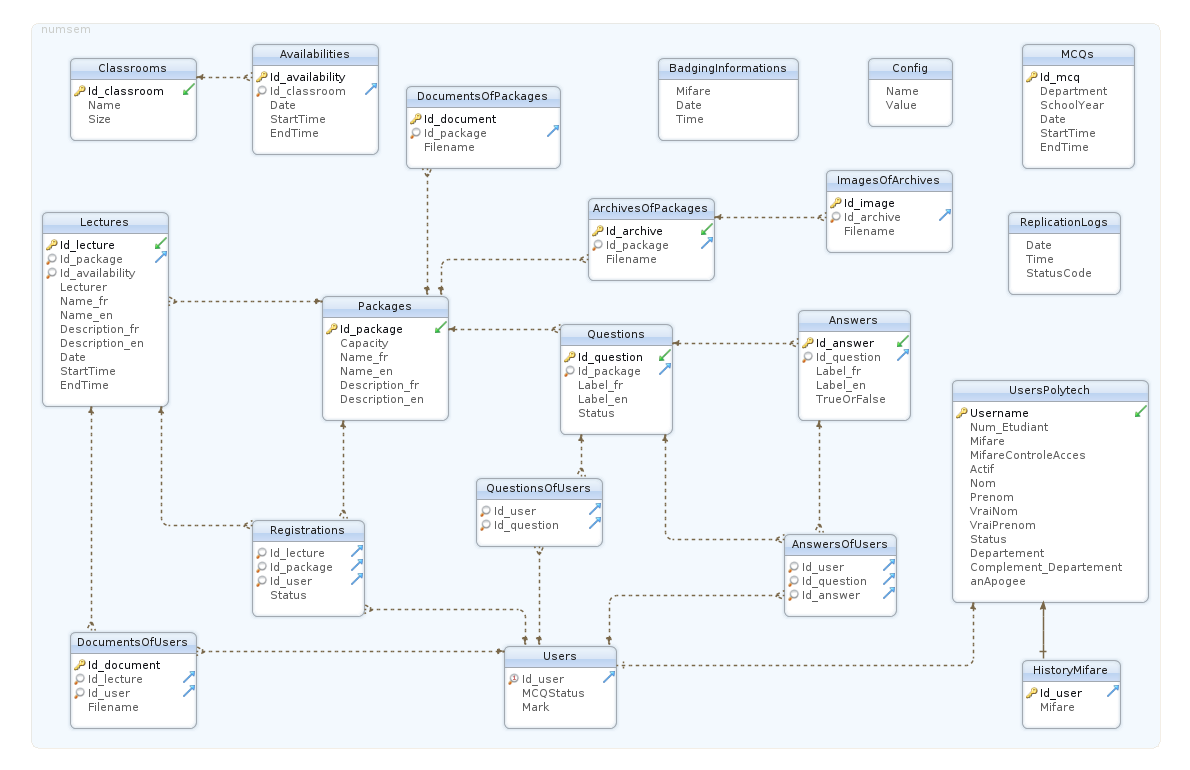
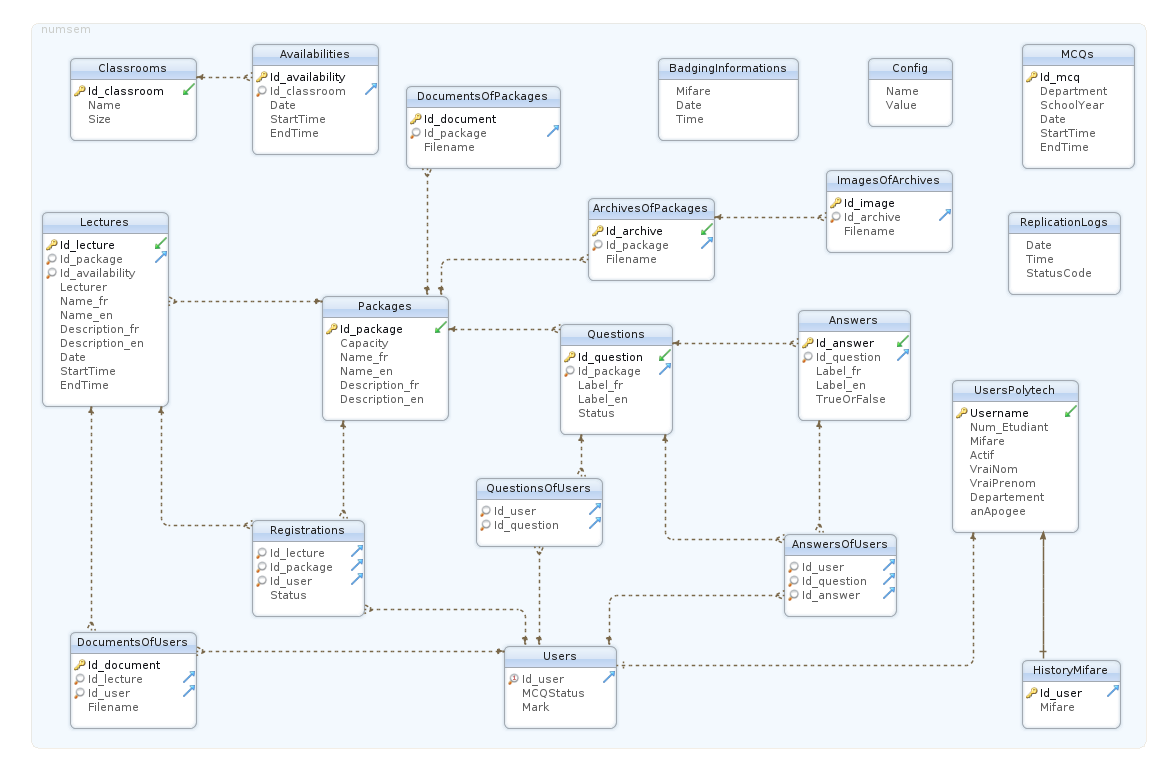
Modif de la bd

diff --git a/www/scripts/replication.php b/www/scripts/replication.php
@@ -23,8 +23,6 @@
 
     try
     {
-
-        // TODO: Mettre les bons paramètres
         $daoPoly = new Database('localhost', 'vbMifare', 'vbMifare2012', 'poly_repli');
         $daoENT = new Database('localhost', 'vbMifare', 'vbMifare2012', 'numsem');
 
@@ -92,7 +90,29 @@
 
             if(!$foundUser)
             {
-                // TODO: Inserer dans la table UsersPolytech que s'il est actif!
+                // Load completely the student from Polytech db
+                $req = $daoPoly->prepare('SELECT Username, Num_Etudiant, Mifare, Actif, VraiNom, VraiPrenom, Departement, anApogee FROM Users WHERE Id_user = ?');
+                $req->execute(array($userPoly['Username']));
+
+                $data = $req->fetch();
+
+                // Now save the new student in our db
+                $req = $daoENT->prepare('INSERT INTO UsersPolytech(Username, 
+                                                                   Num_Etudiant, 
+                                                                   Mifare, 
+                                                                   Actif, 
+                                                                   VraiNom, 
+                                                                   VraiPrenom, 
+                                                                   Departement, 
+                                                                   anApogee) VALUES(?, ?, ?, ?, ?, ?, ?, ?)');
+                $req->execute(array($data['Username'],
+                                    $data['Num_Etudiant'],
+                                    $data['Mifare'],
+                                    $data['Actif'],
+                                    $data['VraiNom'],
+                                    $data['VraiPrenom'],
+                                    $data['Departement'],
+                                    $data['anApogee']));
             }
 
             if($foundUser && $mifareDifferent)

diff --git a/www/lib/models/UserManager.class.php b/www/lib/models/UserManager.class.php
@@ -56,7 +56,7 @@
 
         public function retrieveStudentFromPolytech($logon)
         {
-            $req = $this->m_dao->prepare('SELECT Username, VraiPrenom, VraiNom, Departement, anApogee, Mifare, Actif, Statut FROM UsersPolytech WHERE Username = ?');
+            $req = $this->m_dao->prepare('SELECT Username, VraiPrenom, VraiNom, Departement, anApogee, Mifare, Actif FROM UsersPolytech WHERE Username = ?');
             $req->execute(array($logon));
 
             $data = $req->fetch();
@@ -70,7 +70,6 @@
             $student->setSurname($data['VraiNom']);
             $student->setDepartment($data['Departement']);
             $student->setActive($data['Actif']);
-            $student->setStatus($data['Statut']);
             $student->setSchoolYear($data['anApogee']);
             $student->setMifare($data['Mifare']);
 

diff --git a/www/lib/models/Student.class.php b/www/lib/models/Student.class.php
@@ -6,7 +6,6 @@
         private $m_surname;
         private $m_departement; 
         private $m_active;
-        private $m_statut;
         private $m_schoolYear;
         private $m_mifare;
         private $m_studentNumber;
@@ -62,16 +61,6 @@
         public function getActive()
         {
             return $this->m_active;
-        }
-
-        public function setStatus($status)
-        {
-            $this->m_status = $status;
-        }
-
-        public function getStatus()
-        {
-            return $this->m_status;
         }
 
         public function setSchoolYear($schoolYear)

diff --git a/www/apps/frontend/modules/connection/ConnectionController.class.php b/www/apps/frontend/modules/connection/ConnectionController.class.php
@@ -10,7 +10,7 @@
             // If the user doesn't exist in Polytech db, he's redirected UM2 ENT.
             $student = $manager->retrieveStudentFromPolytech($this->app()->user()->getAttribute('logon'));
             if(!$student)
-                $this->app()->httpResponse()->redirect('portail.univ-montp2.fr');
+                $this->app()->httpResponse()->redirect('http://portail.univ-montp2.fr');
 
             // Default status
             $mcqStatus = 'Visitor';
